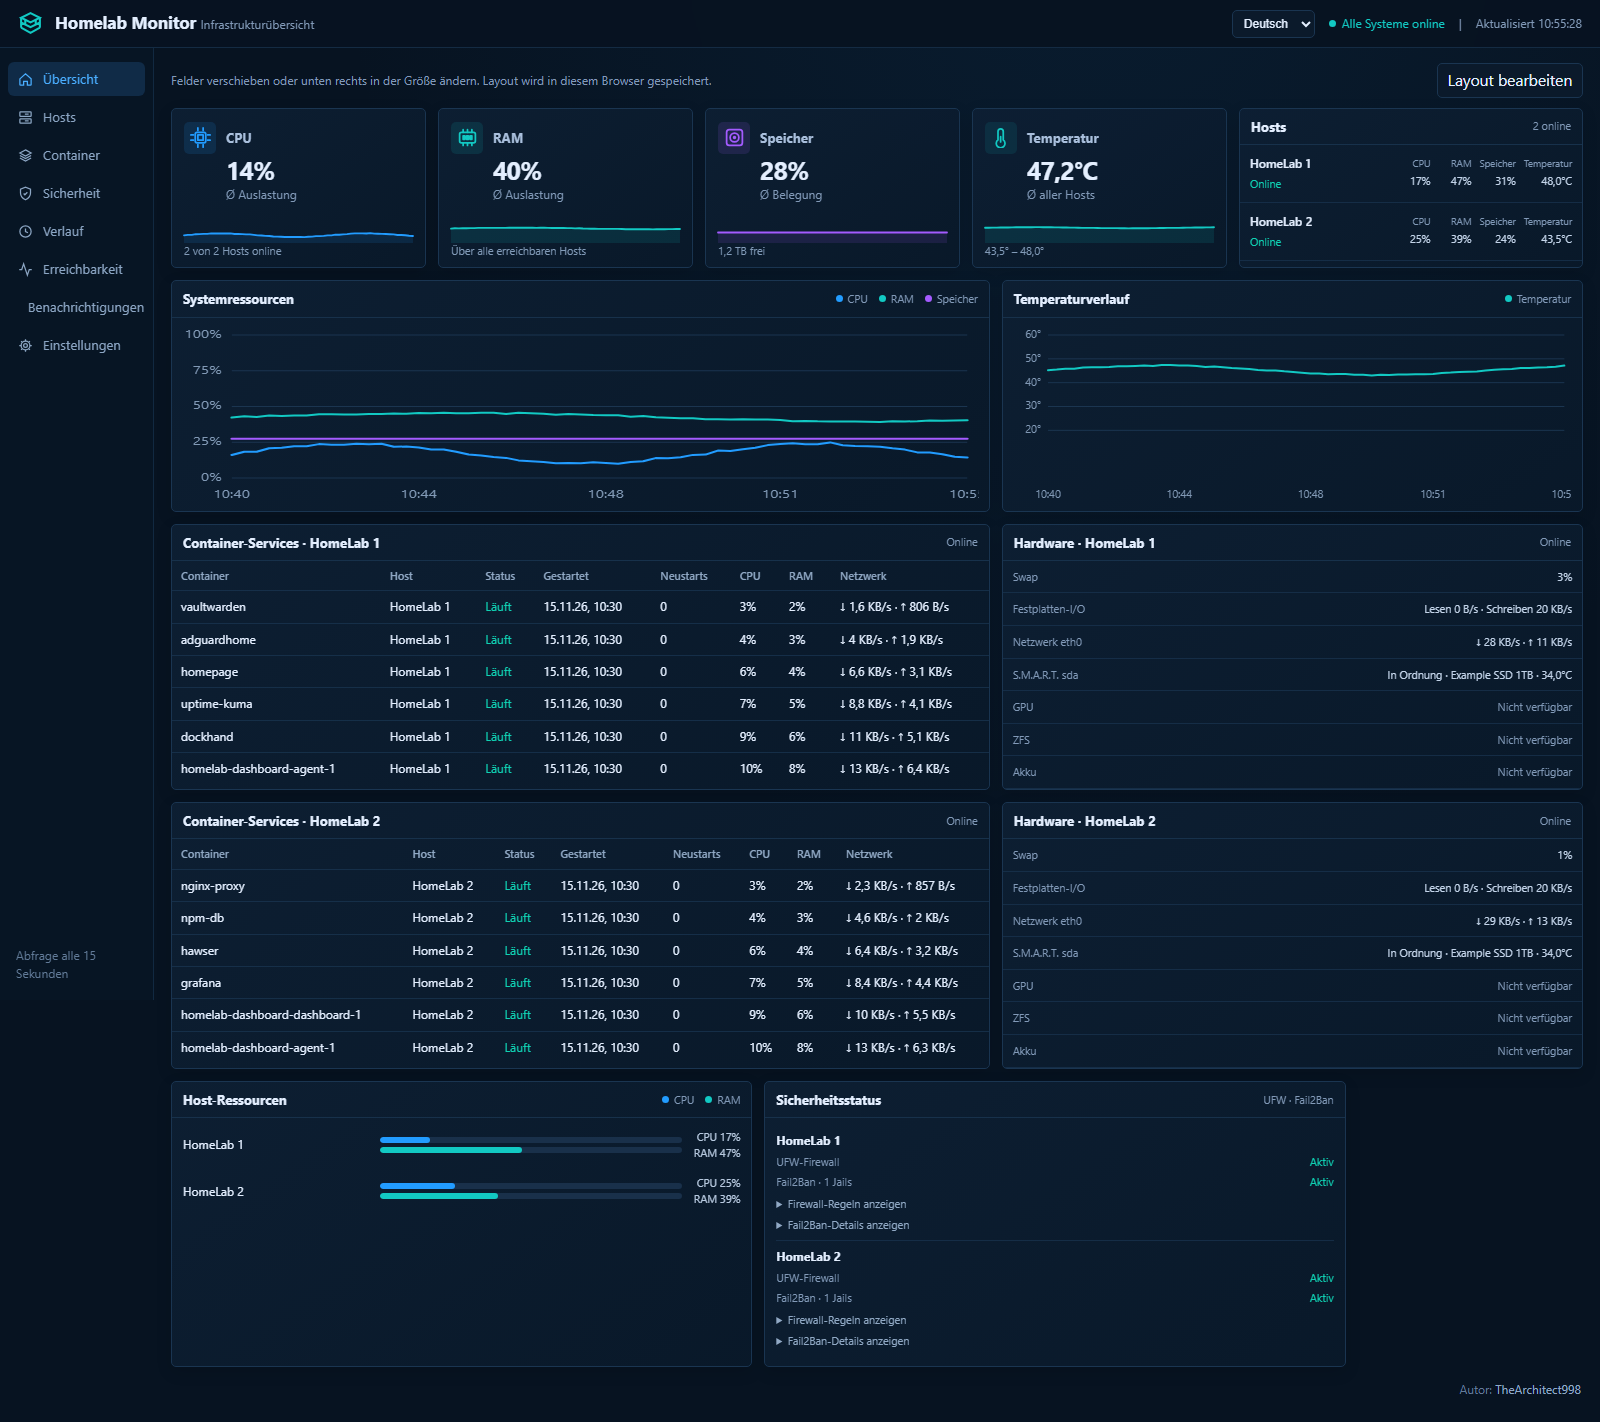
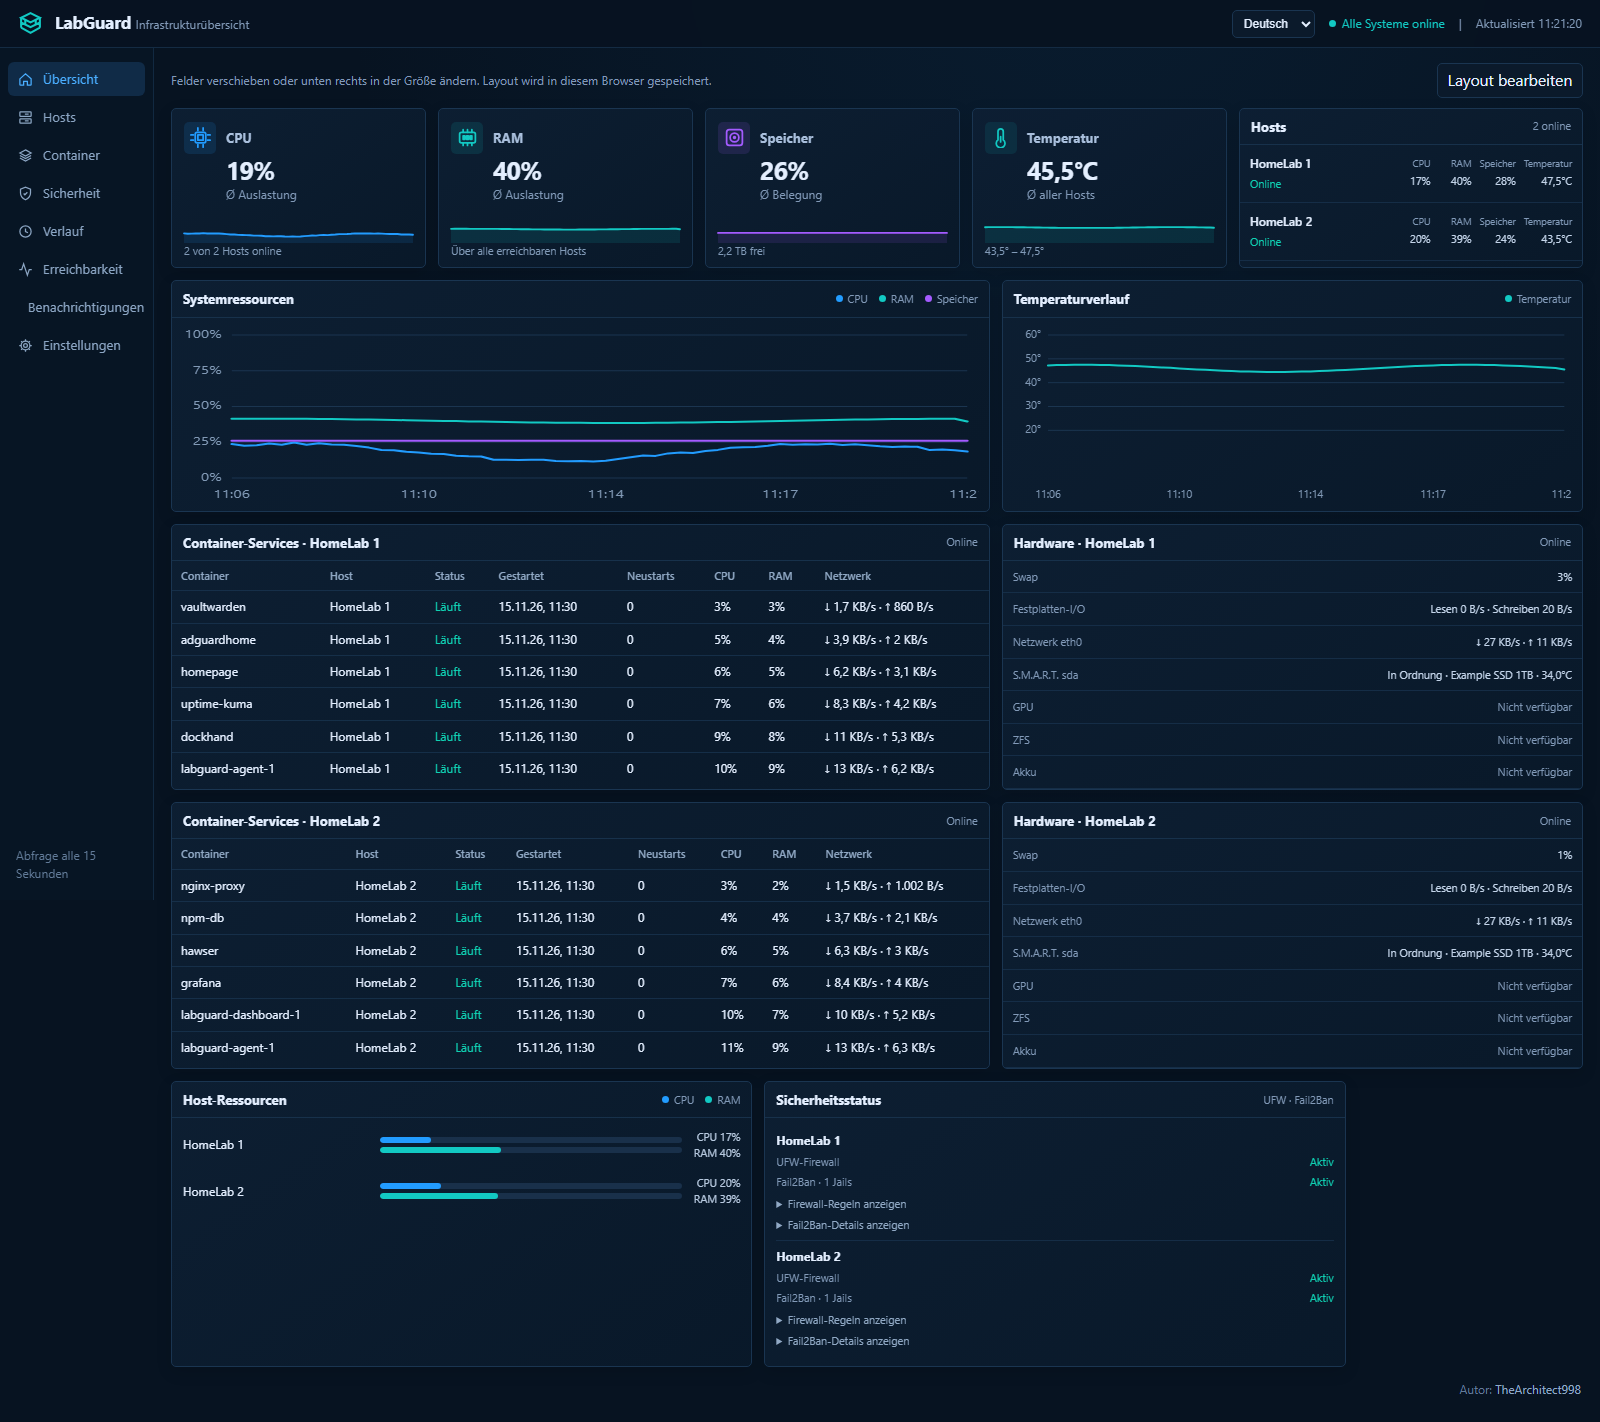
Umbenennung Homelab-Dashboard in LabGuard

diff --git a/dist/index.html b/dist/index.html
@@ -1,3 +1,3 @@
 <!DOCTYPE html><html lang="de"><head><meta charset="utf-8"><meta name="viewport" content="width=device-width, initial-scale=1"><meta name="description" content="Personal-Website von Pius Savary – Self-Hoster &amp; Hobby-Entwickler"><link rel="icon" type="image/svg+xml" href="/favicon.svg"><link rel="apple-touch-icon" href="/apple-touch-icon.png"><link rel="sitemap" href="/sitemap.xml"><title>Pius Savary – Self-Hoster &amp; Hobby-Entwickler</title><style>:root{--bg:#0f1115;--surface:#171a21;--text:#e6e8ec;--muted:#9aa3b2;--accent:#4f9cf9;--border:#262b36}*{box-sizing:border-box;margin:0;padding:0}body{background:var(--bg);color:var(--text);font-family:system-ui,-apple-system,Segoe UI,sans-serif;line-height:1.65}.container{max-width:880px;margin:0 auto;padding:0 1.25rem}a{color:var(--accent);text-decoration:none}a:hover{text-decoration:underline}section{margin:2.5rem 0}h1{font-size:2.1rem;line-height:1.2}h2{color:var(--accent);margin-bottom:.75rem;font-size:1.4rem}p{color:var(--muted);margin-bottom:1rem}.card{background:var(--surface);border:1px solid var(--border);border-radius:12px;margin-bottom:1.25rem;padding:1.5rem}.card img{border-radius:8px;width:100%;margin:.75rem 0}.tags{flex-wrap:wrap;gap:.5rem;margin:.75rem 0;display:flex}.tag{background:var(--border);color:var(--muted);border-radius:999px;padding:.15rem .7rem;font-size:.75rem}.status{font-size:.8rem;font-weight:600}.status.wip{color:#f0a04b}.status.done{color:#3ec46d}.links a{margin-right:1rem}header[data-astro-cid-nen7h5rs]{background:var(--surface);border-bottom:1px solid var(--border);z-index:10;position:sticky;top:0}.header-inner[data-astro-cid-nen7h5rs]{justify-content:space-between;align-items:center;padding-top:1rem;padding-bottom:1rem;display:flex}.brand[data-astro-cid-nen7h5rs]{color:var(--text);font-size:1.1rem;font-weight:700}nav[data-astro-cid-nen7h5rs] a[data-astro-cid-nen7h5rs]{color:var(--muted);margin-left:1.25rem}nav[data-astro-cid-nen7h5rs] a[data-astro-cid-nen7h5rs]:hover{color:var(--text)}footer[data-astro-cid-jo6i4kqk]{border-top:1px solid var(--border);margin-top:4rem;padding:1.5rem 0 2.5rem}p[data-astro-cid-jo6i4kqk]{font-size:.85rem}
 .hero[data-astro-cid-lcdefpme]{align-items:center;gap:2rem;padding-top:3rem;display:flex}.portrait[data-astro-cid-lcdefpme]{object-fit:cover;object-position:center 30%;border:2px solid var(--border);border-radius:50%;flex:0 0 180px;width:180px;height:180px}.subtitle[data-astro-cid-lcdefpme]{margin-top:.4rem;font-size:1.05rem}figcaption[data-astro-cid-lcdefpme]{color:var(--muted);font-size:.8rem}h3[data-astro-cid-lcdefpme]{margin-bottom:.35rem}.badge[data-astro-cid-lcdefpme]{width:200px;height:auto;display:block}h4[data-astro-cid-lcdefpme]{margin:.75rem 0 .25rem}.neu[data-astro-cid-lcdefpme]{margin:0 0 1rem;padding-left:1.25rem}.neu[data-astro-cid-lcdefpme] li[data-astro-cid-lcdefpme]{margin-bottom:.3rem}@media (width<=600px){.hero[data-astro-cid-lcdefpme]{flex-direction:column;align-items:flex-start;gap:1.25rem}.portrait[data-astro-cid-lcdefpme]{flex-basis:140px;width:140px;height:140px}}
-</style></head><body><header data-astro-cid-nen7h5rs><div class="container header-inner" data-astro-cid-nen7h5rs><a href="/" class="brand" data-astro-cid-nen7h5rs>Pius Savary</a><nav data-astro-cid-nen7h5rs><a href="/" data-astro-cid-nen7h5rs>Start</a><a href="/#projekte" data-astro-cid-nen7h5rs>Projekte</a><a href="/#kontakt" data-astro-cid-nen7h5rs>Kontakt</a></nav></div></header><main class="container" data-astro-cid-lcdefpme><section class="hero" data-astro-cid-lcdefpme><img class="portrait" src="/images/Pius.jpg" alt="Porträt von Pius Savary" width="1368" height="2000" data-astro-cid-lcdefpme><div data-astro-cid-lcdefpme><h1 data-astro-cid-lcdefpme>Pius Savary</h1><p class="subtitle" data-astro-cid-lcdefpme><strong data-astro-cid-lcdefpme>Self-Hoster &amp; Hobby-Entwickler</strong></p><p data-astro-cid-lcdefpme>Ich komme aus dem Gesundheitswesen und beschäftige mich seit einiger Zeit intensiv mit IT – selbstständig und mit viel Neugier. In meinem Homelab hoste und betreibe ich eigene Dienste und entwickle Software, die genau dort ansetzt, wo ich aus dem Berufsalltag Lücken kenne.</p></div></section><section id="projekte" data-astro-cid-lcdefpme><h2 data-astro-cid-lcdefpme>Projekte</h2><article class="card" data-astro-cid-lcdefpme><h3 data-astro-cid-lcdefpme>Pflegedokumentationssystem</h3><span class="status wip" data-astro-cid-lcdefpme>In Entwicklung</span><p data-astro-cid-lcdefpme>Eine in Entwicklung befindliche webbasierte Pflegedokumentation für den Pflegealltag. Die selbst gehostete Anwendung unterstützt unter anderem die Erfassung von Pflegeeinträgen, Vitalwerten und Medikamentenbeständen und verbindet meine Erfahrung im Gesundheitswesen mit Softwareentwicklung.</p><figure data-astro-cid-lcdefpme><img src="/images/pflegedoku.png" alt="Screenshot der Pflegedokumentation mit Vitalwerten einer Demo-Person" loading="lazy" data-astro-cid-lcdefpme><figcaption data-astro-cid-lcdefpme>Screenshot der Anwendung mit fiktiven Beispieldaten.</figcaption></figure><div class="tags" data-astro-cid-lcdefpme><span class="tag" data-astro-cid-lcdefpme>Python</span><span class="tag" data-astro-cid-lcdefpme>Flask</span><span class="tag" data-astro-cid-lcdefpme>SQLite</span><span class="tag" data-astro-cid-lcdefpme>Docker</span><span class="tag" data-astro-cid-lcdefpme>Self-Hosting</span></div></article><article class="card" data-astro-cid-lcdefpme><h3 data-astro-cid-lcdefpme>HomeLab Dashboard</h3><span class="status done" data-astro-cid-lcdefpme>Aktiv</span><p data-astro-cid-lcdefpme>HomeLab Dashboard ist ein selbst gehostetes Monitoring-Dashboard für Linux-Hosts und Homelabs. Es zeigt CPU, RAM, Temperatur, Docker-Container, UFW- und Fail2Ban-Status mit 30 Tagen Verlauf. Benachrichtigungen kommen per Telegram, Discord, Ntfy, Pushover, E-Mail, Webhook oder Gotify.</p><h4 data-astro-cid-lcdefpme>Neu in v2.2.2</h4><ul class="neu" data-astro-cid-lcdefpme><li data-astro-cid-lcdefpme><strong data-astro-cid-lcdefpme>Sicherheit:</strong> Agent-Key ist Pflicht (mind. 16 Zeichen). Die Verbindung zum Agent ist per TLS verschlüsselt, optional mit Zertifikat-Pinning. Es gibt Reverse-Proxy-Beispiele für Caddy, nginx und Traefik.</li><li data-astro-cid-lcdefpme><strong data-astro-cid-lcdefpme>Metriken:</strong> Swap, Disk-I/O, Netzwerkraten, S.M.A.R.T. (opt-in), NVIDIA-GPU, ZFS und Akku. CPU, RAM und Netzwerk pro Container mit Verlaufsdiagrammen. Optionale Hardware-Warnungen.</li><li data-astro-cid-lcdefpme><strong data-astro-cid-lcdefpme>Erreichbarkeit:</strong> HTTP-, TCP-, Ping- und DNS-Checks mit Ausfall- und Entwarnungsmeldung.</li><li data-astro-cid-lcdefpme><strong data-astro-cid-lcdefpme>Deployment:</strong> Neue Compose-Dateien für Full-, TLS- und S.M.A.R.T.-Setups.</li></ul><figure data-astro-cid-lcdefpme><img src="/images/dashboard.png" alt="Screenshot des Homelab-Dashboards mit Systemmetriken und Containerstatus" loading="lazy" data-astro-cid-lcdefpme><figcaption data-astro-cid-lcdefpme>Screenshot des Dashboards mit fiktiven Beispieldaten.</figcaption></figure><div class="tags" data-astro-cid-lcdefpme><span class="tag" data-astro-cid-lcdefpme>Python</span><span class="tag" data-astro-cid-lcdefpme>FastAPI</span><span class="tag" data-astro-cid-lcdefpme>HTML</span><span class="tag" data-astro-cid-lcdefpme>JavaScript</span><span class="tag" data-astro-cid-lcdefpme>Self-Hosting</span></div><p data-astro-cid-lcdefpme><a href="https://github.com/TheArchitect998/HomeLab-Dashboard" target="_blank" rel="noopener" data-astro-cid-lcdefpme>GitHub-Repository ↗</a></p></article><article class="card" data-astro-cid-lcdefpme><h3 data-astro-cid-lcdefpme>PDF-Migrator</h3><span class="status done" data-astro-cid-lcdefpme>Im Microsoft Store</span><p data-astro-cid-lcdefpme>Der PDF-Migrator führt getrennt gescannte Vorder- und Rückseiten zu einem PDF zusammen. Dazu wählst du eine Datei mit den ungeraden und eine mit den geraden Seiten; für die geraden Seiten lässt sich die Reihenfolge umkehren. Eine Vorschau zeigt die resultierende Seitenfolge. Die Verarbeitung erfolgt lokal auf deinem Windows-Gerät, ohne Dateien hochzuladen.</p><figure data-astro-cid-lcdefpme><img src="/images/pdf-migrator.png" alt="Screenshot des PDF-Migrators" loading="lazy" data-astro-cid-lcdefpme></figure><div class="tags" data-astro-cid-lcdefpme><span class="tag" data-astro-cid-lcdefpme>Windows App</span><span class="tag" data-astro-cid-lcdefpme>Python</span></div><p data-astro-cid-lcdefpme><a href="https://apps.microsoft.com/detail/9p628vwsxmjt?ocid=webpdpshare" target="_blank" rel="noopener" data-astro-cid-lcdefpme><img class="badge" src="https://get.microsoft.com/images/de%20light.svg" alt="Herunterladen im Microsoft Store" width="200" height="60" loading="lazy" data-astro-cid-lcdefpme></a></p></article></section><section id="kontakt" data-astro-cid-lcdefpme><h2 data-astro-cid-lcdefpme>Kontakt</h2><p data-astro-cid-lcdefpme>Du findest mich hier:</p><div class="links" data-astro-cid-lcdefpme><a href="https://www.linkedin.com/in/pius-jj-savary" target="_blank" rel="noopener" data-astro-cid-lcdefpme>LinkedIn</a><a href="https://github.com/TheArchitect998" target="_blank" rel="noopener" data-astro-cid-lcdefpme>GitHub</a><a target="_blank" rel="noopener" data-astro-cid-lcdefpme>Codeberg</a><a href="mailto:kontakt@savary.one" data-astro-cid-lcdefpme>E-Mail</a></div></section></main><footer data-astro-cid-jo6i4kqk><div class="container" data-astro-cid-jo6i4kqk><p data-astro-cid-jo6i4kqk><a href="/impressum" data-astro-cid-jo6i4kqk>Impressum</a> ·<a href="/datenschutz" data-astro-cid-jo6i4kqk>Datenschutz</a></p><p data-astro-cid-jo6i4kqk>© 2026 Pius Savary</p></div></footer></body></html>
+</style></head><body><header data-astro-cid-nen7h5rs><div class="container header-inner" data-astro-cid-nen7h5rs><a href="/" class="brand" data-astro-cid-nen7h5rs>Pius Savary</a><nav data-astro-cid-nen7h5rs><a href="/" data-astro-cid-nen7h5rs>Start</a><a href="/#projekte" data-astro-cid-nen7h5rs>Projekte</a><a href="/#kontakt" data-astro-cid-nen7h5rs>Kontakt</a></nav></div></header><main class="container" data-astro-cid-lcdefpme><section class="hero" data-astro-cid-lcdefpme><img class="portrait" src="/images/Pius.jpg" alt="Porträt von Pius Savary" width="1368" height="2000" data-astro-cid-lcdefpme><div data-astro-cid-lcdefpme><h1 data-astro-cid-lcdefpme>Pius Savary</h1><p class="subtitle" data-astro-cid-lcdefpme><strong data-astro-cid-lcdefpme>Self-Hoster &amp; Hobby-Entwickler</strong></p><p data-astro-cid-lcdefpme>Ich komme aus dem Gesundheitswesen und beschäftige mich seit einiger Zeit intensiv mit IT – selbstständig und mit viel Neugier. In meinem Homelab hoste und betreibe ich eigene Dienste und entwickle Software, die genau dort ansetzt, wo ich aus dem Berufsalltag Lücken kenne.</p></div></section><section id="projekte" data-astro-cid-lcdefpme><h2 data-astro-cid-lcdefpme>Projekte</h2><article class="card" data-astro-cid-lcdefpme><h3 data-astro-cid-lcdefpme>Pflegedokumentationssystem</h3><span class="status wip" data-astro-cid-lcdefpme>In Entwicklung</span><p data-astro-cid-lcdefpme>Eine in Entwicklung befindliche webbasierte Pflegedokumentation für den Pflegealltag. Die selbst gehostete Anwendung unterstützt unter anderem die Erfassung von Pflegeeinträgen, Vitalwerten und Medikamentenbeständen und verbindet meine Erfahrung im Gesundheitswesen mit Softwareentwicklung.</p><figure data-astro-cid-lcdefpme><img src="/images/pflegedoku.png" alt="Screenshot der Pflegedokumentation mit Vitalwerten einer Demo-Person" loading="lazy" data-astro-cid-lcdefpme><figcaption data-astro-cid-lcdefpme>Screenshot der Anwendung mit fiktiven Beispieldaten.</figcaption></figure><div class="tags" data-astro-cid-lcdefpme><span class="tag" data-astro-cid-lcdefpme>Python</span><span class="tag" data-astro-cid-lcdefpme>Flask</span><span class="tag" data-astro-cid-lcdefpme>SQLite</span><span class="tag" data-astro-cid-lcdefpme>Docker</span><span class="tag" data-astro-cid-lcdefpme>Self-Hosting</span></div></article><article class="card" data-astro-cid-lcdefpme><h3 data-astro-cid-lcdefpme>LabGuard</h3><span class="status done" data-astro-cid-lcdefpme>Aktiv</span><p data-astro-cid-lcdefpme>LabGuard ist ein selbst gehostetes Monitoring-Dashboard für Linux-Hosts und Homelabs. Es zeigt CPU, RAM, Temperatur, Docker-Container, UFW- und Fail2Ban-Status mit 30 Tagen Verlauf. Benachrichtigungen kommen per Telegram, Discord, Ntfy, Pushover, E-Mail, Webhook oder Gotify.</p><h4 data-astro-cid-lcdefpme>Neu in v2.2.2</h4><ul class="neu" data-astro-cid-lcdefpme><li data-astro-cid-lcdefpme><strong data-astro-cid-lcdefpme>Sicherheit:</strong> Agent-Key ist Pflicht (mind. 16 Zeichen). Die Verbindung zum Agent ist per TLS verschlüsselt, optional mit Zertifikat-Pinning. Es gibt Reverse-Proxy-Beispiele für Caddy, nginx und Traefik.</li><li data-astro-cid-lcdefpme><strong data-astro-cid-lcdefpme>Metriken:</strong> Swap, Disk-I/O, Netzwerkraten, S.M.A.R.T. (opt-in), NVIDIA-GPU, ZFS und Akku. CPU, RAM und Netzwerk pro Container mit Verlaufsdiagrammen. Optionale Hardware-Warnungen.</li><li data-astro-cid-lcdefpme><strong data-astro-cid-lcdefpme>Erreichbarkeit:</strong> HTTP-, TCP-, Ping- und DNS-Checks mit Ausfall- und Entwarnungsmeldung.</li><li data-astro-cid-lcdefpme><strong data-astro-cid-lcdefpme>Deployment:</strong> Neue Compose-Dateien für Full-, TLS- und S.M.A.R.T.-Setups.</li></ul><figure data-astro-cid-lcdefpme><img src="/images/dashboard.png" alt="Screenshot von LabGuard mit Systemmetriken und Containerstatus" loading="lazy" data-astro-cid-lcdefpme><figcaption data-astro-cid-lcdefpme>Screenshot des Dashboards mit fiktiven Beispieldaten.</figcaption></figure><div class="tags" data-astro-cid-lcdefpme><span class="tag" data-astro-cid-lcdefpme>Python</span><span class="tag" data-astro-cid-lcdefpme>FastAPI</span><span class="tag" data-astro-cid-lcdefpme>HTML</span><span class="tag" data-astro-cid-lcdefpme>JavaScript</span><span class="tag" data-astro-cid-lcdefpme>Self-Hosting</span></div><p data-astro-cid-lcdefpme><a href="https://github.com/TheArchitect998/LabGuard.git" target="_blank" rel="noopener" data-astro-cid-lcdefpme>GitHub-Repository ↗</a></p></article><article class="card" data-astro-cid-lcdefpme><h3 data-astro-cid-lcdefpme>PDF-Migrator</h3><span class="status done" data-astro-cid-lcdefpme>Im Microsoft Store</span><p data-astro-cid-lcdefpme>Der PDF-Migrator führt getrennt gescannte Vorder- und Rückseiten zu einem PDF zusammen. Dazu wählst du eine Datei mit den ungeraden und eine mit den geraden Seiten; für die geraden Seiten lässt sich die Reihenfolge umkehren. Eine Vorschau zeigt die resultierende Seitenfolge. Die Verarbeitung erfolgt lokal auf deinem Windows-Gerät, ohne Dateien hochzuladen.</p><figure data-astro-cid-lcdefpme><img src="/images/pdf-migrator.png" alt="Screenshot des PDF-Migrators" loading="lazy" data-astro-cid-lcdefpme></figure><div class="tags" data-astro-cid-lcdefpme><span class="tag" data-astro-cid-lcdefpme>Windows App</span><span class="tag" data-astro-cid-lcdefpme>Python</span></div><p data-astro-cid-lcdefpme><a href="https://apps.microsoft.com/detail/9p628vwsxmjt?ocid=webpdpshare" target="_blank" rel="noopener" data-astro-cid-lcdefpme><img class="badge" src="https://get.microsoft.com/images/de%20light.svg" alt="Herunterladen im Microsoft Store" width="200" height="60" loading="lazy" data-astro-cid-lcdefpme></a></p></article></section><section id="kontakt" data-astro-cid-lcdefpme><h2 data-astro-cid-lcdefpme>Kontakt</h2><p data-astro-cid-lcdefpme>Du findest mich hier:</p><div class="links" data-astro-cid-lcdefpme><a href="https://www.linkedin.com/in/pius-jj-savary" target="_blank" rel="noopener" data-astro-cid-lcdefpme>LinkedIn</a><a href="https://github.com/TheArchitect998" target="_blank" rel="noopener" data-astro-cid-lcdefpme>GitHub</a><a target="_blank" rel="noopener" data-astro-cid-lcdefpme>Codeberg</a><a href="mailto:kontakt@savary.one" data-astro-cid-lcdefpme>E-Mail</a></div></section></main><footer data-astro-cid-jo6i4kqk><div class="container" data-astro-cid-jo6i4kqk><p data-astro-cid-jo6i4kqk><a href="/impressum" data-astro-cid-jo6i4kqk>Impressum</a> ·<a href="/datenschutz" data-astro-cid-jo6i4kqk>Datenschutz</a></p><p data-astro-cid-jo6i4kqk>© 2026 Pius Savary</p></div></footer></body></html>
